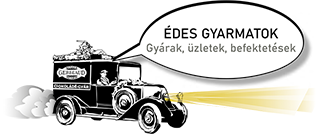
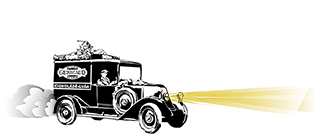
auto

diff --git a/index.html b/index.html
@@ -110,7 +110,7 @@
 				<a href="index.html"><img id="logo" width="175" height="150" src="images/birodalom-logo.png"></a>
 				<a href="https://mkvm.hu"><img id="mkvm" width="82" height="48" src="images/mkvm.png"></a>
 			</div>
-<!-- 		<div id="eng" onmouseover="this.style.cursor='pointer';" onclick="window.location.href='#'"
+			<!-- 		<div id="eng" onmouseover="this.style.cursor='pointer';" onclick="window.location.href='#'"
 				style="cursor: pointer;"></div>
 			<div id="hun" onmouseover="this.style.cursor='pointer';" onclick="window.location.href='index.html'"
 				style="cursor: pointer;"></div> -->
@@ -145,32 +145,32 @@
 				</script>
 			</a>
 
-			<a href="#"> <img id="auto" class="forward-animate" src="images/auto_alap.png" width="327" height="135">
+			<a href="#"> <img id="auto" class="forward-animate" src="images/auto_alap.png" width="326" height="134">
 				<script>
 					$(function () {
 						$("#auto").hover(function () {
 							if ($(this).hasClass('forward-animate')) {
-								$(this).attr("src", "images/auto_fenyes.png");
+								$(this).attr("src", "images/auto_aktiv.png");
 								$(this).fadeIn(0);
 								if (!$(document.querySelector("#auto")).is(':animated')) {
 									playAudio1();
-									$("#auto").animate({ left: "+=750" }, 5000);
+									$("#auto").animate({ left: "+=750" }, 5000, function () { $("#auto").attr("src", "images/auto_alap.png") });
 									$(this).removeClass('forward-animate');
 									$(this).addClass('backward-animate');
 								}
 							}
 							else {
-								$(this).attr("src", "images/auto_fenyes.png");
+								$(this).attr("src", "images/auto_aktiv.png");
 								$(this).fadeIn(0);
 								if (!$(document.querySelector("#auto")).is(':animated')) {
 									playAudio2();
-									$("#auto").animate({ left: "-=750" }, 5000);
+									$("#auto").animate({ left: "-=750" }, 5000, function () { $("#auto").attr("src", "images/auto_alap.png") });
 									$(this).removeClass('backward-animate')
 									$(this).addClass('forward-animate')
 								}
 							}
 						}, function () {
-							$(this).attr("src", "images/auto_alap.png");
+							$(this).attr("src", "images/auto_fenyes.png");
 						}
 						);
 					});
